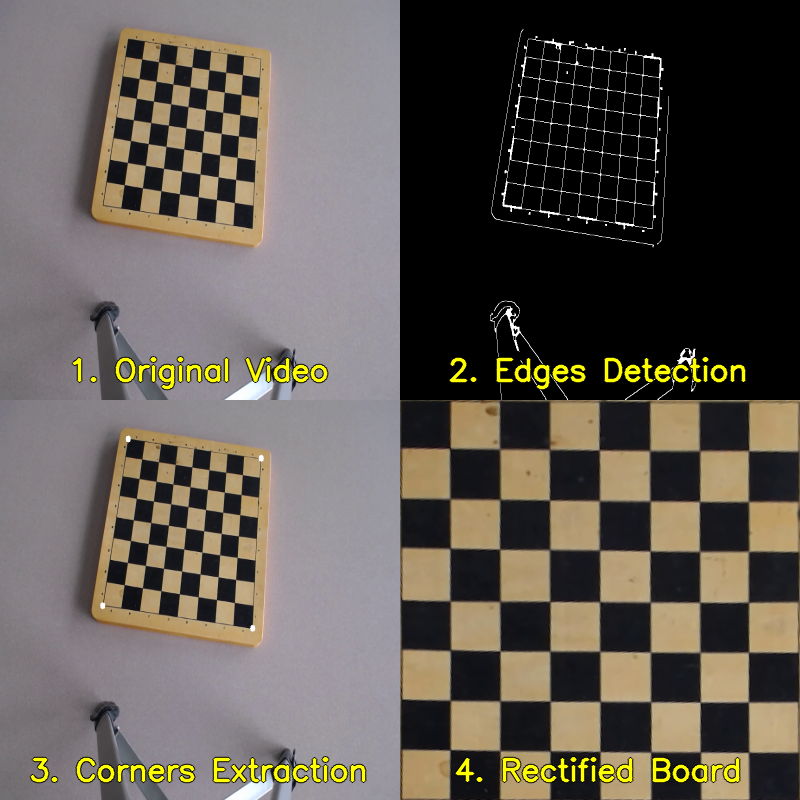
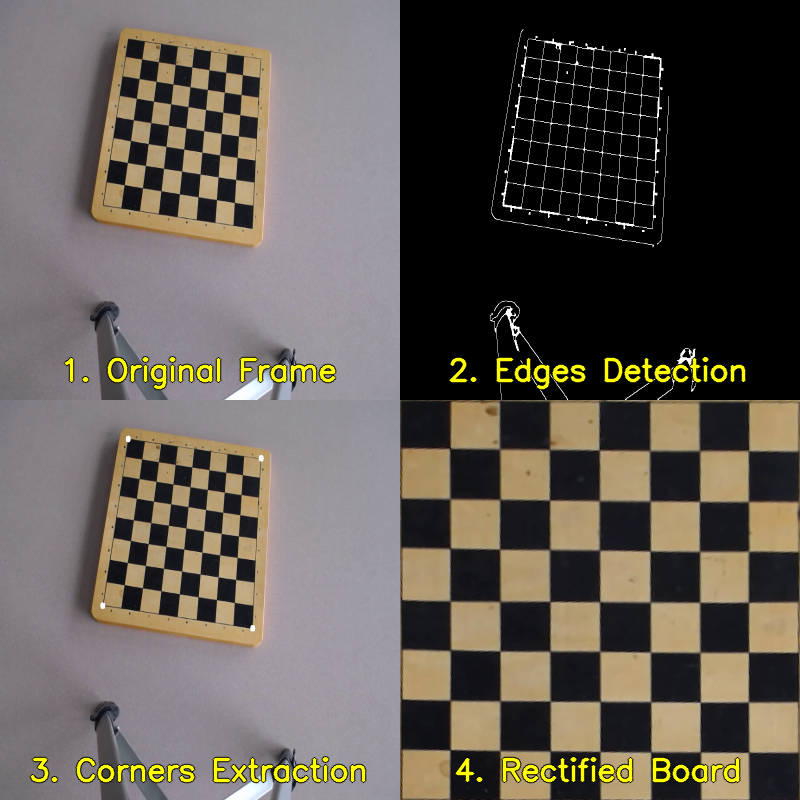
part1: added saving coordinates to .json file

Changed region(s): [[0.0625, 0.4375, 0.4375, 0.5]]

diff --git a/part1.py b/part1.py
@@ -1,7 +1,7 @@
 import cv2
 import numpy as np
-import os
-os.makedirs('output_videos', exist_ok=True) #folder for output video
+import json
+
 
 # Read input from video
 cap = cv2.VideoCapture("./input_videos/echiquier_vide_1.avi")
@@ -105,12 +105,9 @@ def put_text_with_outline(img, text):
     
     x = (width - text_w) // 2  
     y = height - 20
-        
     pos = (x, y)
     
-    # Draw the outline of the text
     cv2.putText(img, text, pos, font, scale, (0, 0, 0), thickness_out, cv2.LINE_AA)
-    # Draw thinner yellow text over it (the inside)
     cv2.putText(img, text, pos, font, scale, (0, 255, 255), thickness_in, cv2.LINE_AA)
 
 def create_dashboard(img1, img2, img3, img4, size=(400, 400)):
@@ -124,7 +121,7 @@ def create_dashboard(img1, img2, img3, img4, size=(400, 400)):
     i4 = cv2.resize(img4, size)
     
     # Add the labels
-    put_text_with_outline(i1, "1. Original Video")
+    put_text_with_outline(i1, "1. Original Frame")
     put_text_with_outline(i2, "2. Edges Detection")
     put_text_with_outline(i3, "3. Corners Extraction")
     put_text_with_outline(i4, "4. Rectified Board")
@@ -137,6 +134,8 @@ def create_dashboard(img1, img2, img3, img4, size=(400, 400)):
     return grid
  
 # ================= Main program =====================
+
+corners = None
 
 while cap.isOpened():
     ret, frame = cap.read()
@@ -154,7 +153,11 @@ while cap.isOpened():
     out_edges.write(edges_bgr)
     
     # Extract corners of the 8x8 grid
-    corners = get_grid_corners(edges)
+    if corners is None: #This will be calculated for ONLY 1 TIME
+        corners = get_grid_corners(edges)
+        with open('./output_videos/part1_corners_coordinates.json','w') as f:
+            json.dump(corners.tolist(),f,indent=4)
+        print("SUCCESS: Corners coordinates saved to part1_corners_coordinates.json!")    
     
     if corners is not None:
         # Draw the detected corners
